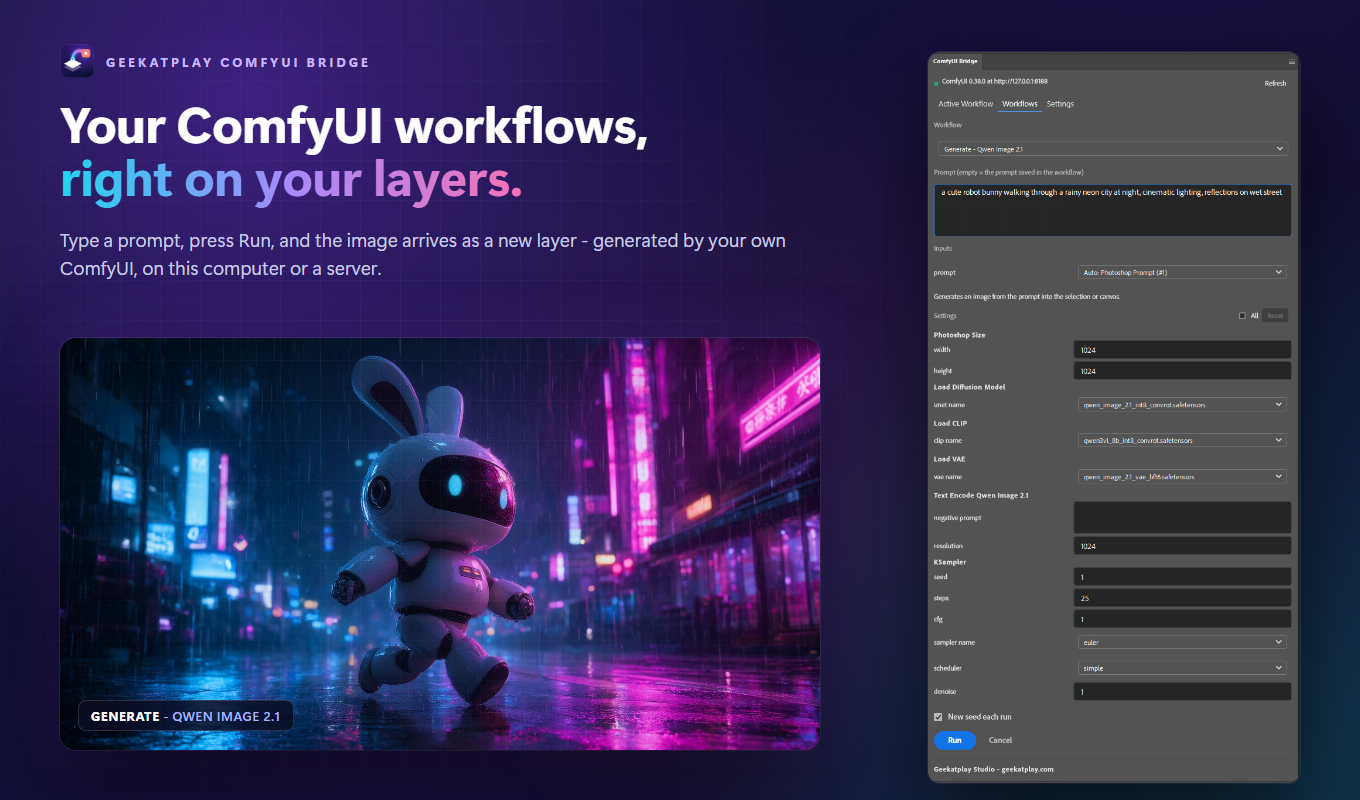
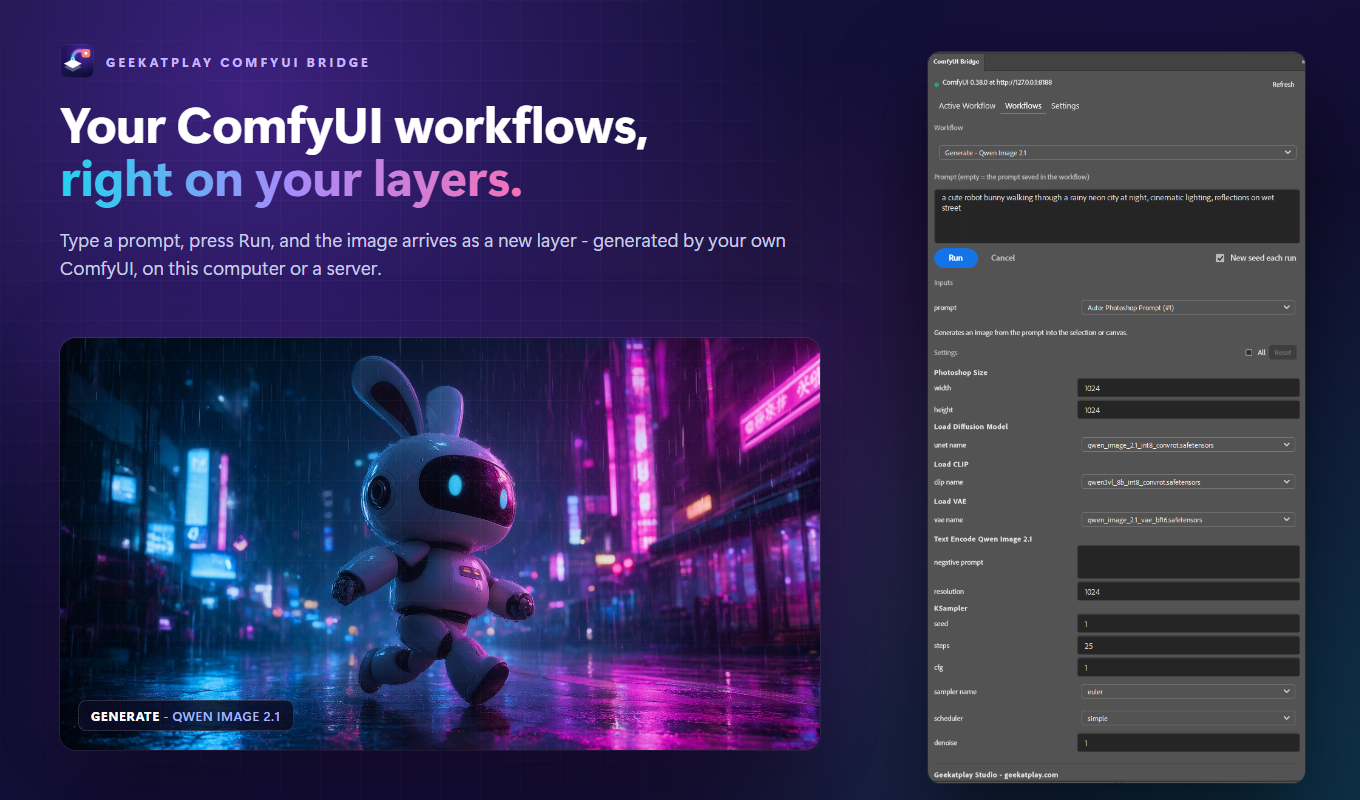
Move Run and Cancel next to the prompt

Changed region(s): [[0.6794, 0.0625, 0.9574, 0.9688], [0.6794, 0.875, 0.7721, 0.9688], [0.9265, 0.0625, 0.9574, 0.125]]

diff --git a/photoshop/index.html b/photoshop/index.html
@@ -49,6 +49,11 @@
         <sp-action-button id="copy-models" class="hidden" quiet>Copy download links</sp-action-button>
         <sp-label>Prompt (empty = the prompt saved in the workflow)</sp-label>
         <sp-textarea id="prompt"></sp-textarea>
+        <div class="row run-row">
+            <sp-button id="run" variant="cta">Run</sp-button>
+            <sp-button id="cancel" variant="secondary" quiet>Cancel</sp-button>
+            <sp-checkbox id="randomize-seed" class="push-right">New seed each run</sp-checkbox>
+        </div>
         <sp-label>Inputs</sp-label>
         <div id="inputs"></div>
         <sp-body size="XS" id="inputs-hint" class="hint"></sp-body>
@@ -58,11 +63,6 @@
             <sp-action-button id="reset-params" size="s" quiet>Reset</sp-action-button>
         </div>
         <div id="params"></div>
-        <sp-checkbox id="randomize-seed">New seed each run</sp-checkbox>
-        <div class="row">
-            <sp-button id="run" variant="cta">Run</sp-button>
-            <sp-button id="cancel" variant="secondary" quiet>Cancel</sp-button>
-        </div>
     </section>
 
     <section id="page-settings" class="page hidden">

diff --git a/photoshop/styles.css b/photoshop/styles.css
@@ -103,6 +103,14 @@ body > * {
     flex: 1 1 auto;
 }
 
+.run-row {
+    margin-bottom: 12px;
+}
+
+.push-right {
+    margin-left: auto;
+}
+
 select,
 sp-textfield,
 sp-textarea {

diff --git a/README.md b/README.md
@@ -160,7 +160,8 @@ installer keeps your server address, added workflows and their settings.
 
 ### Workflows tab - run a workflow from Photoshop
 
-Pick a workflow, type a prompt, press **Run**. ComfyUI runs it without the browser.
+Pick a workflow, type a prompt, press **Run** - it sits right under the prompt, next to
+**Cancel** and **New seed each run**. ComfyUI runs the workflow without the browser.
 
 | The workflow has | What is sent | Where the result goes |
 | --- | --- | --- |
@@ -177,7 +178,7 @@ Pick a workflow, type a prompt, press **Run**. ComfyUI runs it without the brows
 - **Refresh** (next to the connection status) reads everything from ComfyUI again: the
   model lists, the built-in workflows, the template list and the selected workflow. Press
   it after adding models, editing a workflow in ComfyUI or restarting ComfyUI.
-- **New seed each run** gives every `seed` / `noise_seed` a new value.
+- **New seed each run** (next to Run) gives every `seed` / `noise_seed` a new value.
 - When you run a workflow that loads other models than the previous one, the panel first
   asks ComfyUI to unload its models and clear its cache, so the new models start with
   free memory. Running the same models again keeps them loaded.

diff --git a/distribution/LISTING.md b/distribution/LISTING.md
@@ -109,6 +109,7 @@ English
 - Refresh button; the panel reconnects by itself and keeps its lists when ComfyUI restarts.
 - New built-in workflows: Depth Map (Marigold V2) and Upscale 4x (SeedVR2 7B).
 - Setup steps and a link to the guide when ComfyUI is not reachable.
+- Run and Cancel sit right under the prompt.
 ```
 
 ## Note for Adobe reviewers (1000)
